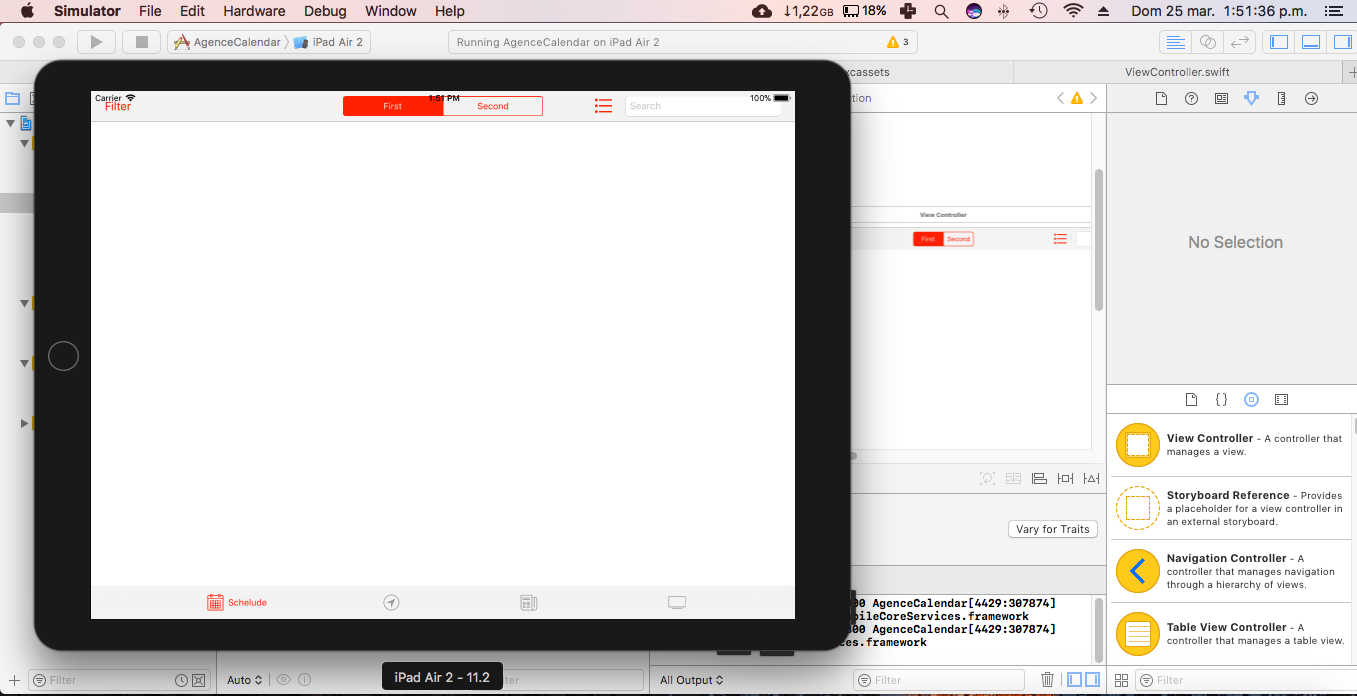
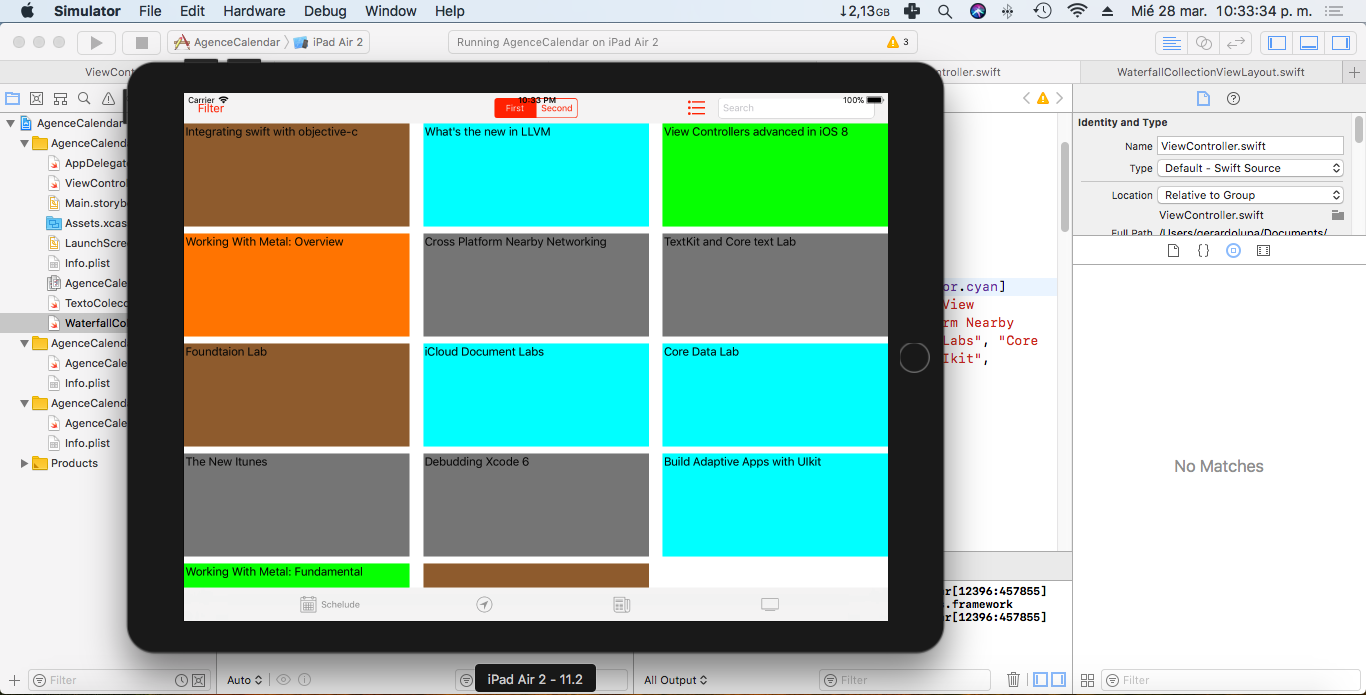
ajustes
ajustes de nivelacion, presionar para mover los bloques de horario

diff --git a/ViewController.swift b/ViewController.swift
@@ -14,7 +14,7 @@ class ViewController: UIViewController {
     @IBOutlet weak var mi_coleccion: UICollectionView!
     //fileprivate var numbers: [Int] = []
     //var numbers: [Int] = []
-    let bgColors = [UIColor.black, UIColor.gray, UIColor.green, UIColor.orange]
+    let bgColors = [UIColor.brown, UIColor.gray, UIColor.green, UIColor.orange, UIColor.cyan]
     var tematica = ["Integrating swift with objective-c", "What's the new in LLVM", "View Controllers advanced in iOS 8", "Working With Metal: Overview", "Cross Platform Nearby Networking", "TextKit and Core text Lab", "Foundtaion Lab", "iCloud Document Labs", "Core Data Lab", "The New Itunes", "Debudding Xcode 6", "Build Adaptive Apps with UIkit", "Working With Metal: Fundamental", ""]
    
     fileprivate var longPressGesture: UILongPressGestureRecognizer!
